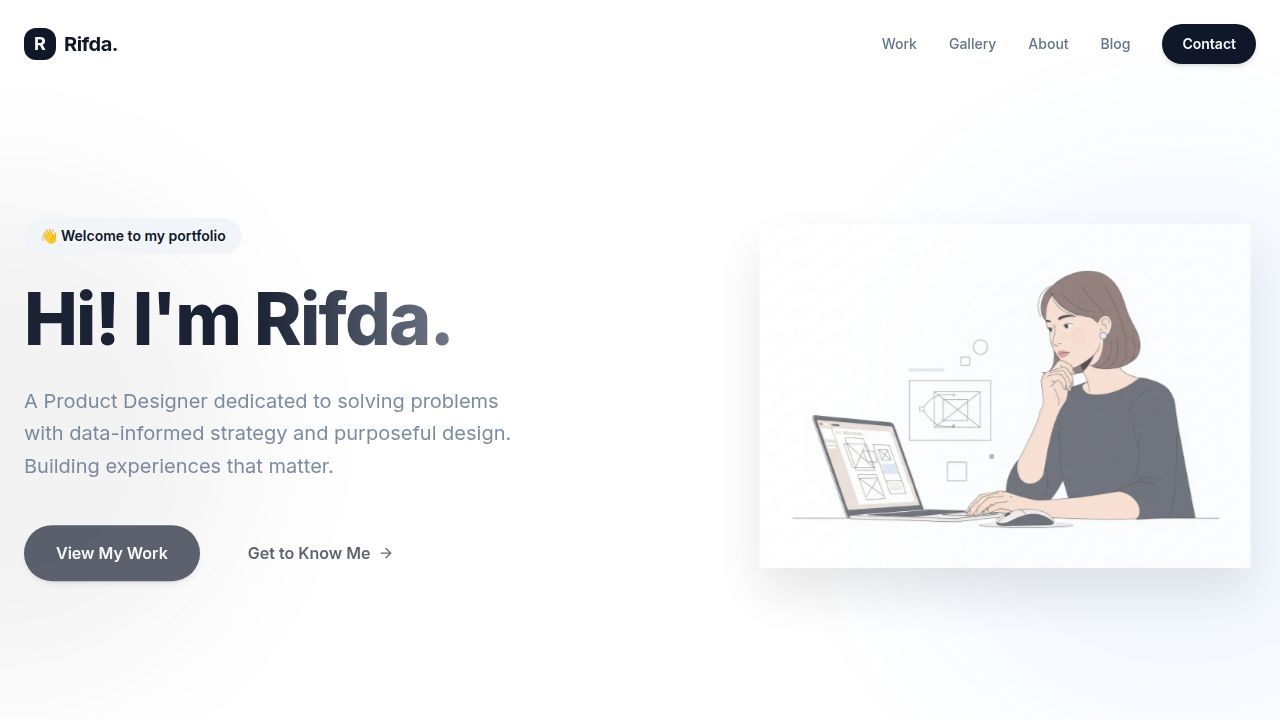
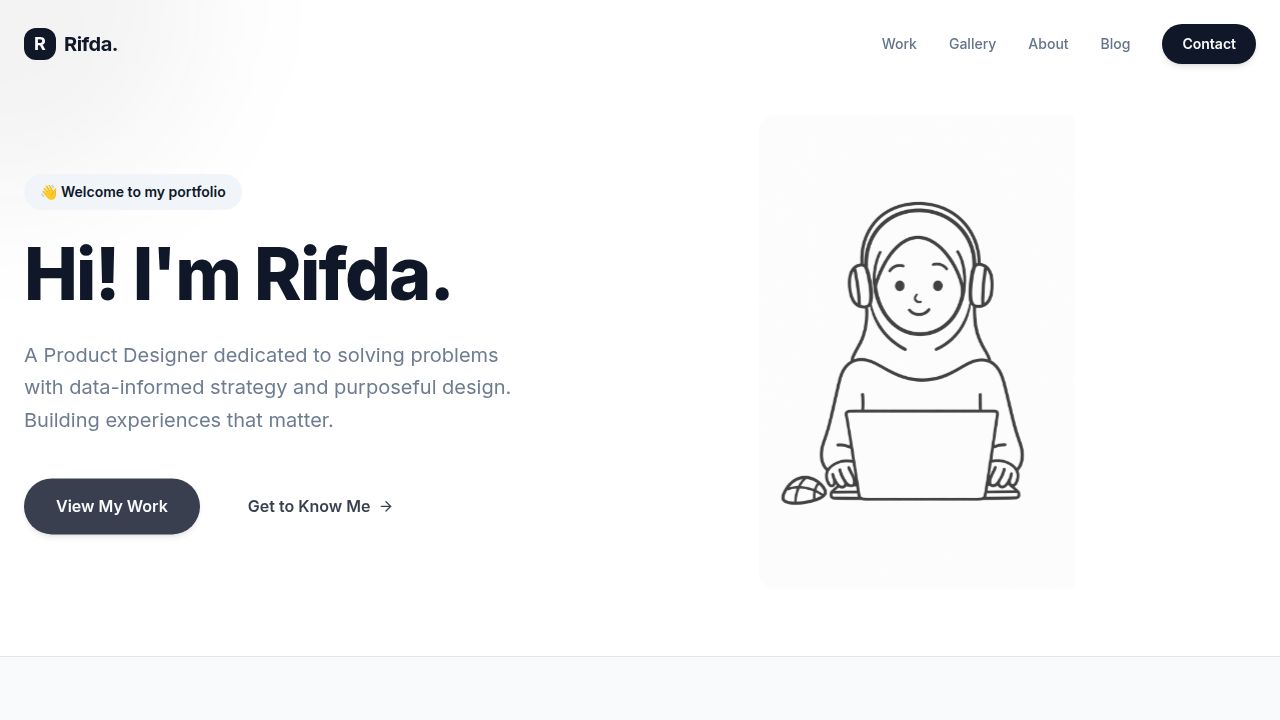
Add interactive carousel functionality to the UI gallery section
Integrates `embla-carousel-react` and `embla-carousel-autoplay` into the Gallery component, introducing a swipeable and auto-playing carousel with navigation controls. Updates `package.json` and `pnpm-lock.yaml` to include new dependencies. Adjusts `Gallery.tsx` and `Hero.tsx` for UI consistency and updates image paths in `portfolio.ts`.

Replit-Commit-Author: Agent
Replit-Commit-Session-Id: 95c96ab8-9149-4e40-8adc-505fc8c6ee8b
Replit-Commit-Checkpoint-Type: full_checkpoint
Replit-Commit-Event-Id: 48739ffc-03c9-4ce4-9154-d179fd4aadc8
Replit-Commit-Screenshot-Url: https://storage.googleapis.com/screenshot-production-us-central1/43477e83-1d9a-46f7-9f3b-12cba837a63b/95c96ab8-9149-4e40-8adc-505fc8c6ee8b/aZIjyTj
Replit-Helium-Checkpoint-Created: true

diff --git a/artifacts/portfolio/src/components/sections/Gallery.tsx b/artifacts/portfolio/src/components/sections/Gallery.tsx
@@ -1,59 +1,152 @@
+import { useCallback, useEffect, useState } from "react";
 import { motion } from "framer-motion";
+import { ChevronLeft, ChevronRight } from "lucide-react";
+import useEmblaCarousel from "embla-carousel-react";
+import Autoplay from "embla-carousel-autoplay";
 import { galleryItems } from "@/data/portfolio";
+import { cn } from "@/lib/utils";
 
 export function Gallery() {
+  const [emblaRef, emblaApi] = useEmblaCarousel(
+    { loop: true, align: "start", slidesToScroll: 1 },
+    [Autoplay({ delay: 4000, stopOnInteraction: true })]
+  );
+
+  const [selectedIndex, setSelectedIndex] = useState(0);
+  const [canScrollPrev, setCanScrollPrev] = useState(false);
+  const [canScrollNext, setCanScrollNext] = useState(false);
+
+  const onSelect = useCallback(() => {
+    if (!emblaApi) return;
+    setSelectedIndex(emblaApi.selectedScrollSnap());
+    setCanScrollPrev(emblaApi.canScrollPrev());
+    setCanScrollNext(emblaApi.canScrollNext());
+  }, [emblaApi]);
+
+  useEffect(() => {
+    if (!emblaApi) return;
+    onSelect();
+    emblaApi.on("select", onSelect);
+    emblaApi.on("reInit", onSelect);
+    return () => {
+      emblaApi.off("select", onSelect);
+      emblaApi.off("reInit", onSelect);
+    };
+  }, [emblaApi, onSelect]);
+
+  const scrollPrev = useCallback(() => emblaApi?.scrollPrev(), [emblaApi]);
+  const scrollNext = useCallback(() => emblaApi?.scrollNext(), [emblaApi]);
+  const scrollTo = useCallback((i: number) => emblaApi?.scrollTo(i), [emblaApi]);
+
   return (
-    <section id="gallery" className="py-24 bg-secondary/30 border-y border-border">
+    <section id="gallery" className="py-24 bg-secondary/30 border-y border-border overflow-hidden">
       <div className="container mx-auto px-6 max-w-7xl">
-        <div className="mb-16 max-w-2xl">
-          <motion.h2
-            initial={{ opacity: 0, y: 20 }}
-            whileInView={{ opacity: 1, y: 0 }}
-            viewport={{ once: true }}
-            className="text-3xl md:text-4xl font-extrabold mb-4"
-          >
-            UI Gallery
-          </motion.h2>
-          <motion.p
-            initial={{ opacity: 0, y: 20 }}
-            whileInView={{ opacity: 1, y: 0 }}
-            viewport={{ once: true }}
-            transition={{ delay: 0.1 }}
-            className="text-lg text-muted-foreground"
-          >
-            A collection of interface explorations, design systems, and visual experiments.
-          </motion.p>
+
+        {/* Header + controls row */}
+        <div className="flex flex-col md:flex-row md:items-end justify-between gap-6 mb-12">
+          <div className="max-w-2xl">
+            <motion.h2
+              initial={{ opacity: 0, y: 20 }}
+              whileInView={{ opacity: 1, y: 0 }}
+              viewport={{ once: true }}
+              className="text-3xl md:text-4xl font-extrabold mb-3"
+            >
+              UI Gallery
+            </motion.h2>
+            <motion.p
+              initial={{ opacity: 0, y: 20 }}
+              whileInView={{ opacity: 1, y: 0 }}
+              viewport={{ once: true }}
+              transition={{ delay: 0.1 }}
+              className="text-lg text-muted-foreground"
+            >
+              A collection of interface explorations, design systems, and visual
+              experiments.
+            </motion.p>
+          </div>
+
+          {/* Prev / Next buttons */}
+          <div className="flex items-center gap-3 flex-shrink-0">
+            <button
+              onClick={scrollPrev}
+              className={cn(
+                "w-11 h-11 rounded-full border border-border bg-background flex items-center justify-center transition-all duration-200",
+                "hover:bg-primary hover:text-primary-foreground hover:border-primary",
+                !canScrollPrev && "opacity-40 cursor-not-allowed"
+              )}
+              aria-label="Previous slide"
+            >
+              <ChevronLeft className="w-5 h-5" />
+            </button>
+            <button
+              onClick={scrollNext}
+              className={cn(
+                "w-11 h-11 rounded-full border border-border bg-background flex items-center justify-center transition-all duration-200",
+                "hover:bg-primary hover:text-primary-foreground hover:border-primary",
+                !canScrollNext && "opacity-40 cursor-not-allowed"
+              )}
+              aria-label="Next slide"
+            >
+              <ChevronRight className="w-5 h-5" />
+            </button>
+          </div>
         </div>
 
-        <div className="grid grid-cols-1 md:grid-cols-3 gap-6">
-          {galleryItems.map((item, index) => (
-            <motion.div
-              key={index}
-              initial={{ opacity: 0, scale: 0.95 }}
-              whileInView={{ opacity: 1, scale: 1 }}
-              viewport={{ once: true }}
-              transition={{ duration: 0.5, delay: index * 0.1 }}
-              className="group cursor-pointer relative aspect-square md:aspect-[4/5] overflow-hidden rounded-2xl bg-white shadow-sm hover:shadow-lg transition-all border border-border"
-            >
-              <img
-                src={`${import.meta.env.BASE_URL}images/${item.image}`}
-                alt={item.title}
-                className="w-full h-full object-cover group-hover:scale-105 transition-transform duration-700"
-              />
+        {/* Carousel viewport */}
+        <div ref={emblaRef} className="overflow-hidden -mx-3">
+          <div className="flex touch-pan-y">
+            {galleryItems.map((item, index) => (
+              <motion.div
+                key={index}
+                initial={{ opacity: 0, y: 24 }}
+                whileInView={{ opacity: 1, y: 0 }}
+                viewport={{ once: true }}
+                transition={{ duration: 0.5, delay: index * 0.08 }}
+                className="flex-none w-full sm:w-[80%] md:w-[60%] lg:w-[45%] xl:w-[38%] px-3"
+              >
+                <div className="group relative aspect-[4/3] overflow-hidden rounded-2xl border border-border shadow-sm bg-white cursor-pointer">
+                  <img
+                    src={`${import.meta.env.BASE_URL}images/${item.image}`}
+                    alt={item.title}
+                    className="w-full h-full object-cover group-hover:scale-105 transition-transform duration-700"
+                    draggable={false}
+                  />
 
-              {/* Gradient Overlay */}
-              <div className="absolute inset-0 bg-gradient-to-t from-black/80 via-black/20 to-transparent opacity-0 group-hover:opacity-100 transition-opacity duration-300" />
+                  {/* Gradient overlay on hover */}
+                  <div className="absolute inset-0 bg-gradient-to-t from-black/75 via-black/15 to-transparent opacity-0 group-hover:opacity-100 transition-opacity duration-300" />
 
-              {/* Content */}
-              <div className="absolute inset-x-0 bottom-0 p-6 translate-y-4 group-hover:translate-y-0 opacity-0 group-hover:opacity-100 transition-all duration-300">
-                <span className="text-xs font-semibold px-2 py-1 bg-white/20 backdrop-blur-md text-white rounded mb-3 inline-block">
-                  {item.tag}
-                </span>
-                <h3 className="text-white text-lg font-bold">{item.title}</h3>
-              </div>
-            </motion.div>
+                  {/* Label */}
+                  <div className="absolute inset-x-0 bottom-0 p-6 translate-y-3 group-hover:translate-y-0 opacity-0 group-hover:opacity-100 transition-all duration-300">
+                    <span className="text-xs font-semibold px-2.5 py-1 bg-white/20 backdrop-blur-sm text-white rounded-full mb-3 inline-block">
+                      {item.tag}
+                    </span>
+                    <h3 className="text-white text-xl font-bold leading-snug">
+                      {item.title}
+                    </h3>
+                  </div>
+                </div>
+              </motion.div>
+            ))}
+          </div>
+        </div>
+
+        {/* Dot indicators */}
+        <div className="flex items-center justify-center gap-2 mt-8">
+          {galleryItems.map((_, i) => (
+            <button
+              key={i}
+              onClick={() => scrollTo(i)}
+              aria-label={`Go to slide ${i + 1}`}
+              className={cn(
+                "rounded-full transition-all duration-300",
+                i === selectedIndex
+                  ? "w-7 h-2.5 bg-primary"
+                  : "w-2.5 h-2.5 bg-border hover:bg-muted-foreground"
+              )}
+            />
           ))}
         </div>
+
       </div>
     </section>
   );

diff --git a/artifacts/portfolio/src/data/portfolio.ts b/artifacts/portfolio/src/data/portfolio.ts
@@ -26,7 +26,7 @@ export const hero = {
   cta1: { label: "View My Work", href: "#work" },
   cta2: { label: "Get to Know Me", href: "#about" },
   /** Replace with your own illustration filename inside public/images/ */
-  image: "hero-illustration.png",
+  image: "Hero-portofolio-image.png ",
   imageAlt: "Product Designer Illustration",
 };
 
@@ -114,7 +114,7 @@ export const caseStudies = [
     description:
       "Redesigning the checkout flow to reduce cart abandonment rate by 24% for a mid-sized fashion retailer.",
     tags: ["Conversion", "A/B Testing", "Mobile UI"],
-    image: "case-study-2.png",
+    image: "case-study-surplus.png",
     color: "bg-orange-50",
     overview:
       "Partnered with an online fashion retailer to diagnose and redesign a checkout experience that was costing them significant revenue through high abandonment rates.",
@@ -153,7 +153,7 @@ export const caseStudies = [
     description:
       "Simplifying complex data visualization to help marketing managers make faster, more confident decisions.",
     tags: ["Data Viz", "Design System", "B2B SaaS"],
-    image: "case-study-3.png",
+    image: "case-study-aman.png",
     color: "bg-green-50",
     overview:
       "A B2B SaaS client needed their analytics dashboard redesigned — their power users loved the depth, but new users churned within the first two weeks because the interface was overwhelming.",
@@ -202,7 +202,7 @@ export const galleryItems = [
   {
     title: "Mobile App Screens",
     tag: "Mobile UI",
-    image: "gallery-2.png",
+    image: "galery-dipay.png",
   },
   {
     title: "Data Visualization",

diff --git a/artifacts/portfolio/src/components/sections/Hero.tsx b/artifacts/portfolio/src/components/sections/Hero.tsx
@@ -70,11 +70,11 @@ export function Hero() {
             animate={{ opacity: 1, scale: 1 }}
             transition={{ duration: 0.8, delay: 0.4, ease: "easeOut" }}
           >
-            <div className="relative w-full max-w-[500px] rounded-2xl overflow-hidden bg-secondary/30">
+            <div className="relative w-full max-w-[500px] rounded-2xl overflow-hidden">
               <img
                 src={`${import.meta.env.BASE_URL}images/${hero.image}`}
                 alt={hero.imageAlt}
-                className="object-contain w-full h-auto drop-shadow-xl"
+                className="w-80 h-auto"
               />
             </div>
           </motion.div>
